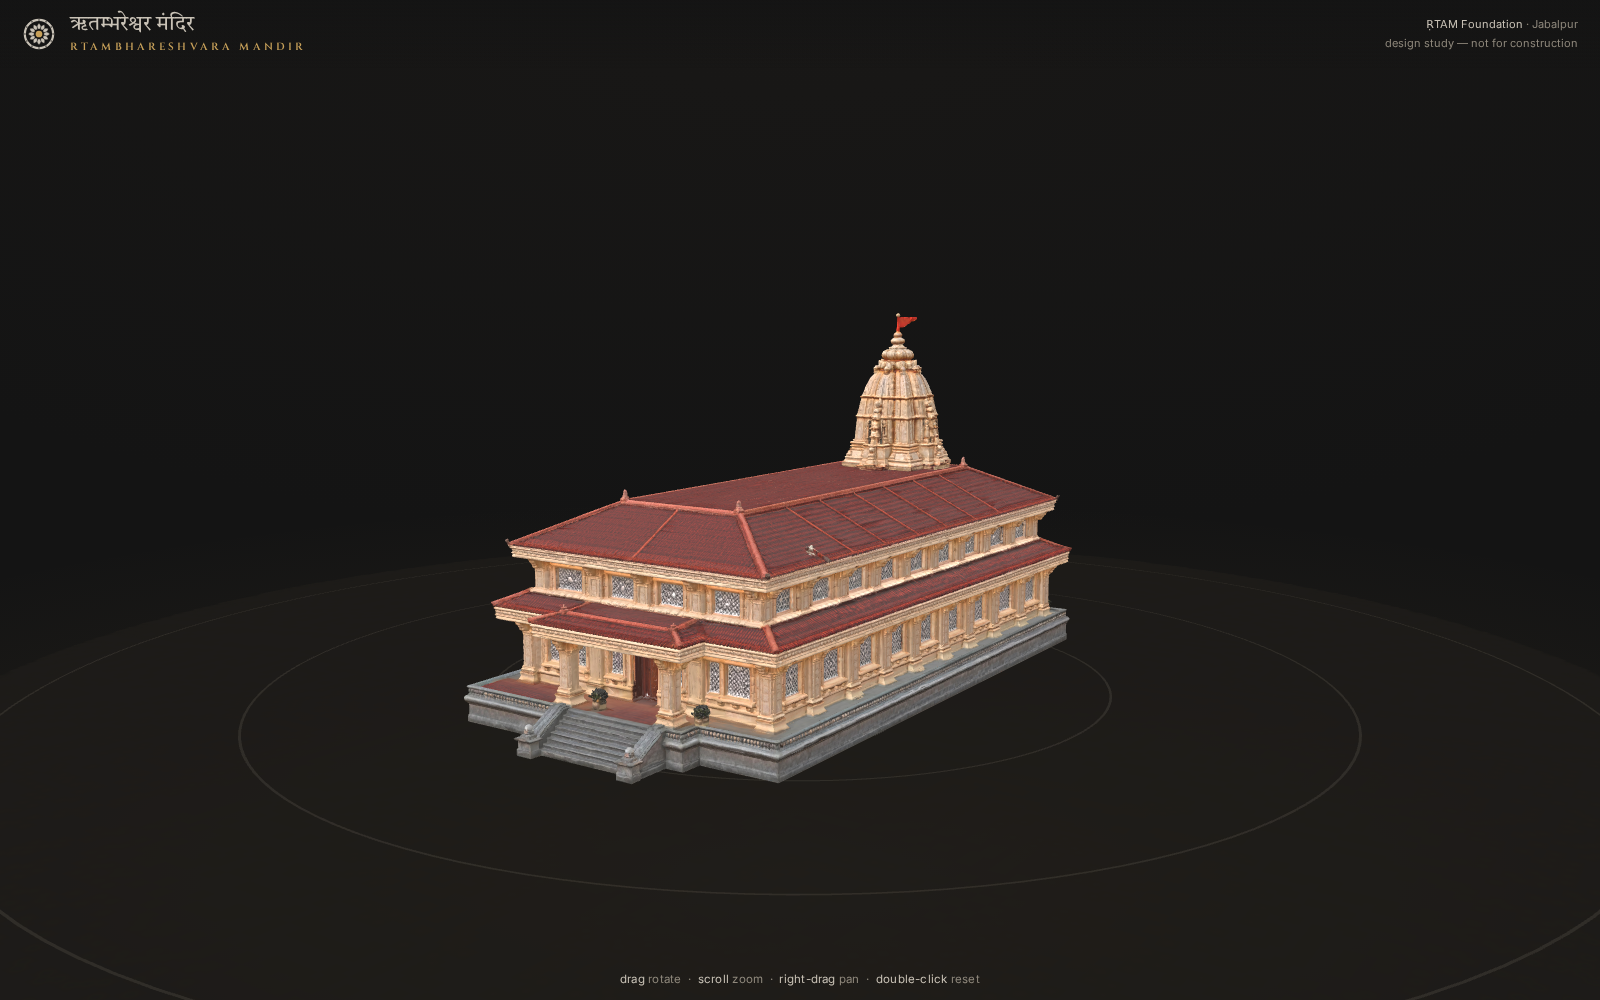
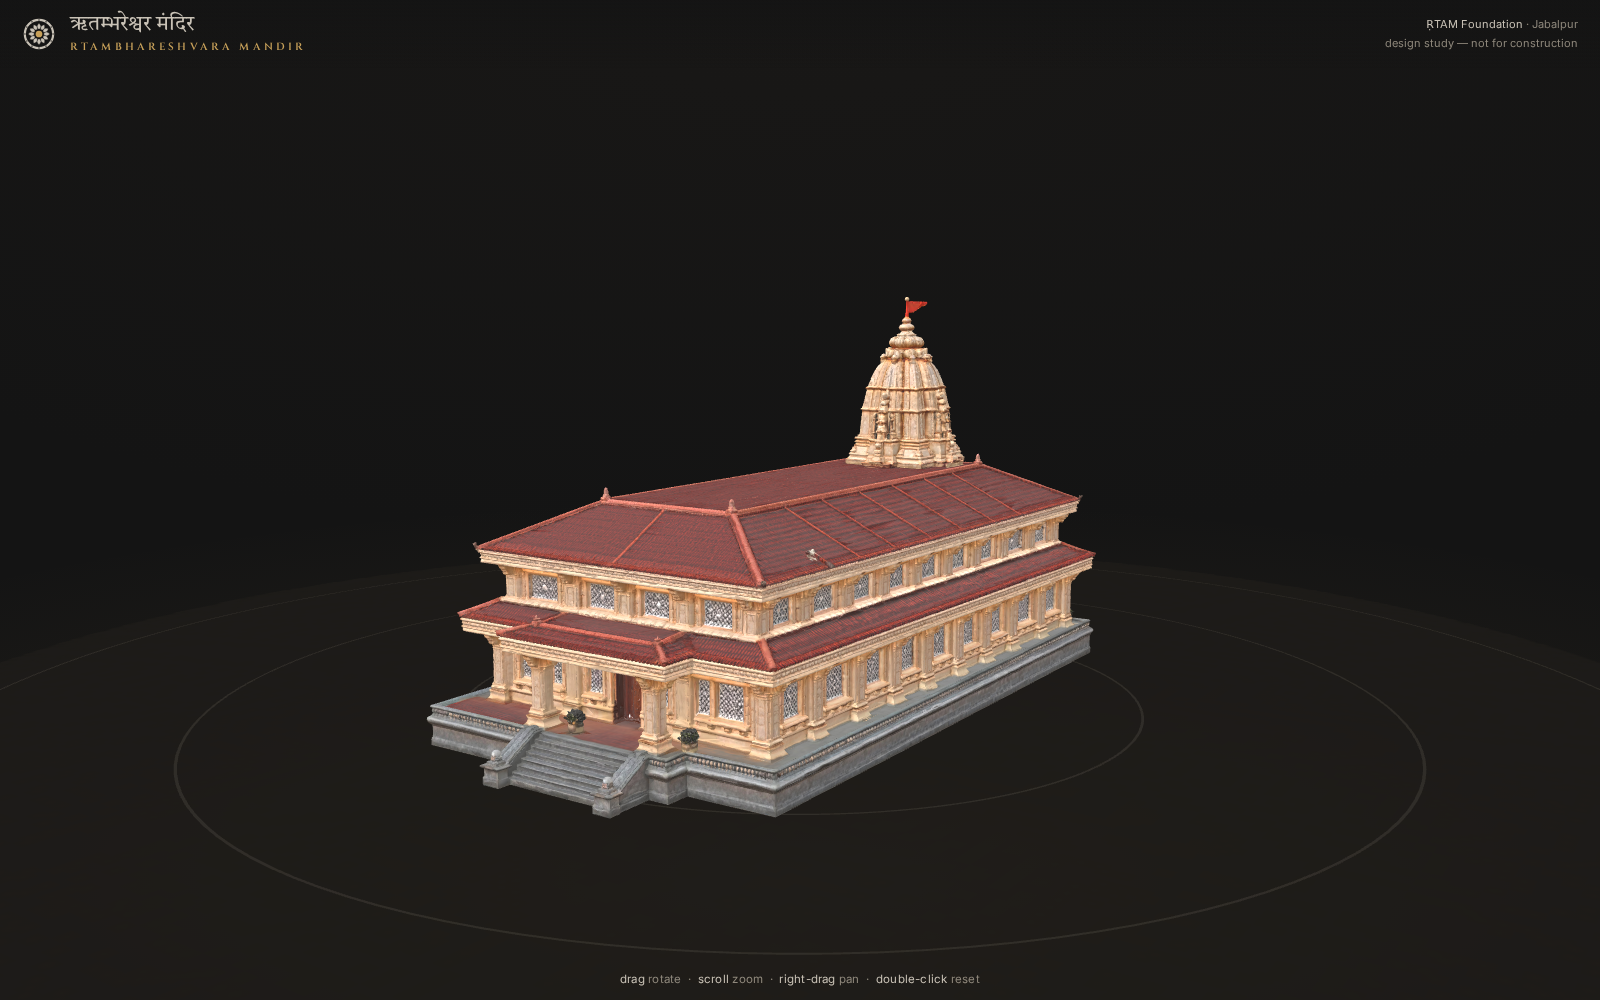
temple-3d: the Tripo-studio look — even environment light, no key
The clay look came from directional lights re-shading a texture that
already carries its baked light and occlusion. Now the environment does
the lighting (envMapIntensity 1.35, soft white hemisphere, no key/rim),
colors as authored, tighter default framing.

Changed region(s): [[0.25, 0.279, 0.6875, 0.837]]

diff --git a/temple-3d/index.html b/temple-3d/index.html
@@ -117,15 +117,11 @@ controls.autoRotate = true;            // museum turntable…
 controls.autoRotateSpeed = 0.6;
 controls.addEventListener("start", () => (controls.autoRotate = false)); // …until touched
 
-// bright neutral studio light — the dark stage lives in the backdrop,
-// not on the model
-scene.add(new THREE.HemisphereLight(0xffffff, 0xd8d2c8, 1.05));
-const key = new THREE.DirectionalLight(0xffffff, 1.0);
-key.position.set(-3, 4, 3);
-scene.add(key);
-const rim = new THREE.DirectionalLight(0xfff6e8, 0.45);
-rim.position.set(2.5, 3, -3.5);
-scene.add(rim);
+// EVEN studio light, the way Tripo's viewer works: the environment does
+// nearly everything and no directional light re-shades the model — its
+// texture already carries the baked light and occlusion. A directional
+// key on top reads as "clay".
+scene.add(new THREE.HemisphereLight(0xffffff, 0xcfccc6, 0.55));
 
 // the stage floor: dissolve disc + quiet reference rings (concentric
 // circles only — never a counted grid)
@@ -166,7 +162,7 @@ function frame(object) {
   object.position.set(-center.x * scale, -box.min.y * scale, -center.z * scale);
   const sphere = new THREE.Box3().setFromObject(object).getBoundingSphere(new THREE.Sphere());
   const fov = (camera.fov * Math.PI) / 180;
-  const dist = (1.12 * sphere.radius) / Math.sin(Math.min(fov, fov * camera.aspect) / 2);
+  const dist = (1.02 * sphere.radius) / Math.sin(Math.min(fov, fov * camera.aspect) / 2);
   const az = (35 * Math.PI) / 180, el = (11 * Math.PI) / 180;
   camera.position.set(
     Math.sin(az) * Math.cos(el) * dist,
@@ -198,6 +194,7 @@ loader.load(
     gltf.scene.traverse((o) => {
       if (!o.isMesh) return;
       for (const m of Array.isArray(o.material) ? o.material : [o.material]) {
+        m.envMapIntensity = 1.35; // the environment IS the studio light
         for (const slot of ["map", "normalMap", "roughnessMap", "metalnessMap", "aoMap", "emissiveMap"]) {
           if (m[slot]) { m[slot].anisotropy = maxAniso; m[slot].needsUpdate = true; }
         }
